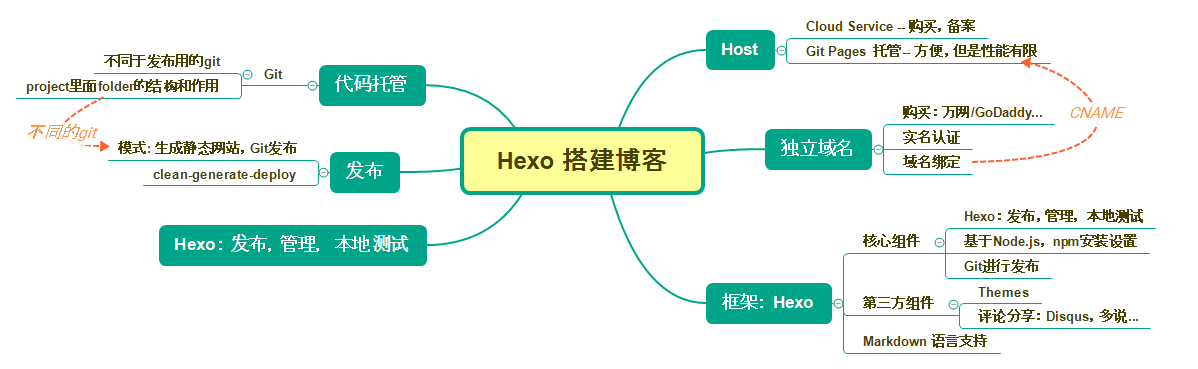
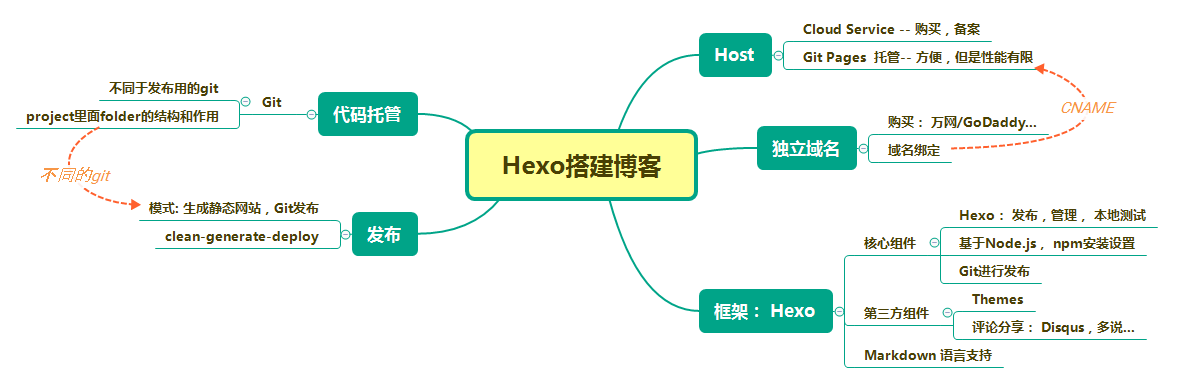
hexo

Changed region(s): [[0.0, 0.0298, 0.9458, 0.7453], [0.5492, 0.5366, 0.9763, 0.9837], [0.5186, 0.5962, 0.5492, 0.7453]]

diff --git a/source/_posts/使用Hexo搭建博客.md b/source/_posts/使用Hexo搭建博客.md
@@ -5,17 +5,63 @@ tags: [Hexo, 博客]
 categories: 技术
 ---
 
+最近在整理笔记的时候，发现OneNote跟EverNote这样的工具都不够方法，主要是排版，引用，语法强调跟层次结构上面很难满足需求，后来又看了简书之类的平台，本来是为了找一个写技术文档的地方的，最后发现了用Hexo来建立自己的博客的方式，在满足自己需求的前提下，还能够拥有自己的专属域名，觉得很cool，就研究了一下。
 
 
-![](hexo_xmind.jpg)
+Hexo是一款基于Node.js的静态博客框架，所谓的静态博客，就是说文章是build成一个个的静态页面，而不是存在数据库里面动态加载。
 
-## 底层框架##
+![](hexo_xmind.png)
 
-Hexo的底层框架包含了Git和Node.js 两部分，也是准备工作
+上面这张图给出了利用Hexo搭建自己的博客所涉及到的几个方面, 归纳起来就是下面几个问题：
 
-### 环境设置
+```
+如何搭建博客？
+Host在哪里？
+怎么发布？
+域名管理
+代码管理 
+```
 
-```javascript
+## 1. 如何搭建：使用Hexo ##
+
+使用Hexo来搭建一个博客系统，包含下面几个部分的工作：
+
+
+### Hexo环境配置###
+### 安装设置Blog的主题Theme###
+### 添加一篇文章###
+### 本地测试###
+### 扩展功能: Catalog/Tag/Comments...###
+
+
+```
 npm install hexo-cli -g
 ```
+
+## 2. Host在哪里：Cloud 或者Git Pages ##
+
+### Git Pages ###
+### 第三方Cloud Service ###
+
+
+## 3. 如何发布：deploy到git repository ##
+
+
+## 4. 域名管理 ##
+
+### 购买域名 ###
+### 解析绑定域名到自己的Service ###
+
+## 5. 代码管理 ##
+
+### 新建一个Git Repository或者 Branch ###
+### Project 结构： 那些需要同步 ###
+
+## 6. Refrence ##
+[npm 模块安装机制简介](http://www.ruanyifeng.com/blog/2016/01/npm-install.html)
+[Hexo官方网站](https://hexo.io/zh-cn/)
+[Markdown 中文文档](https://markdown-zh.readthedocs.io/en/latest/blockelements/)
+[20分钟教你使用hexo搭建github博客](http://www.jianshu.com/p/e99ed60390a8)
+[Xmind 官方网站](http://www.xmind.net/)
+[让思路更清晰——我是怎样使用思维导图的](https://blog.coding.net/blog/coding-mindmap)
 
